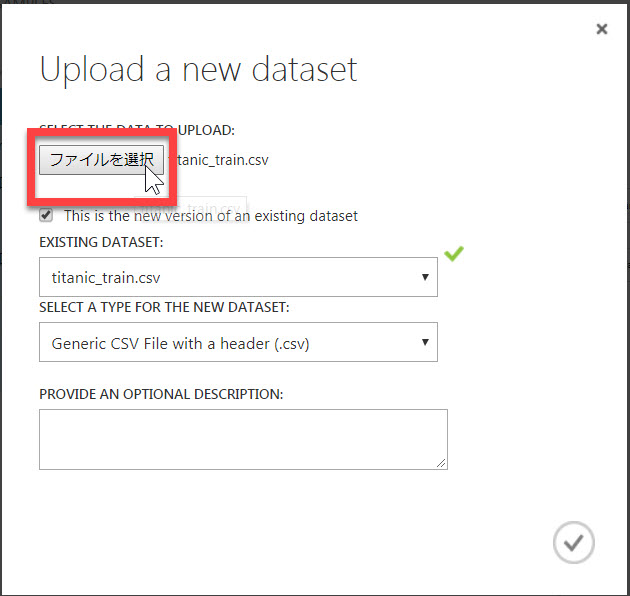
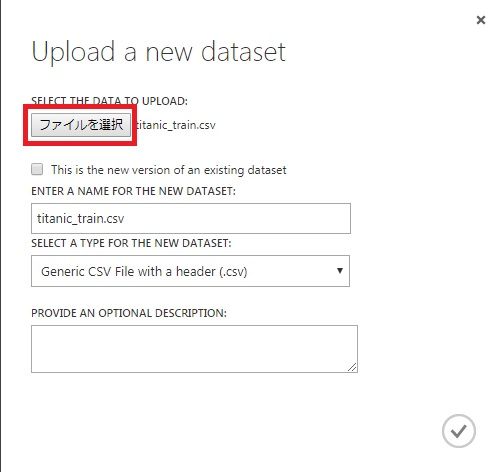
update contents

diff --git a/02_dataanalyze.md b/02_dataanalyze.md
@@ -44,7 +44,7 @@ Kaggle から取得した [**タイタニック号の乗船リスト**](https://
 4. [**ファイルを選択**] をクリックして、"titanic_train.csv" (train.csv の名前を変更したもの) を選択します。  
 "EXISTING DATASET" および "SELECT A TYPE FOR THE NEW DATASET" はデフォルトのままでかまいません。
 ![Update a new dataset](./images/02/upload_a_new_dataset.jpg)  
-   - EXISTING DATASET: ファイル名と同じ
+   - ENTER A NAME FOR THE NEW DATASET: ファイル名と同じ
    - SELECT A TYPE FOR THE NEW DATASET: "Generic CSV File with a header (.csv)"  
   ※今回の titanic_train.csv は 1行目がヘッダーなので "with a header" を選択します。他のデータセットでは、形式に応じて適切なものを選択します。  
 5. 右下のチェック (Ok) をクリックして、データセットをアップロードします。

diff --git a/04_createmodel.md b/04_createmodel.md
@@ -52,7 +52,7 @@
 
 今回は **Two-class SVM** を使ってみます。
 
-1. モジュール一覧で、[Machine Learning]-[Initial Model]-[**Two-Class Support Vector Machine**] を Experiment にドロップします。  
+1. モジュール一覧で、[Machine Learning]-[Initial Model]-[Classification][**Two-Class Support Vector Machine**] を Experiment にドロップします。  
 ![Two-class SVM](./images/04/twoclass_svm.jpg)
 
 ---
